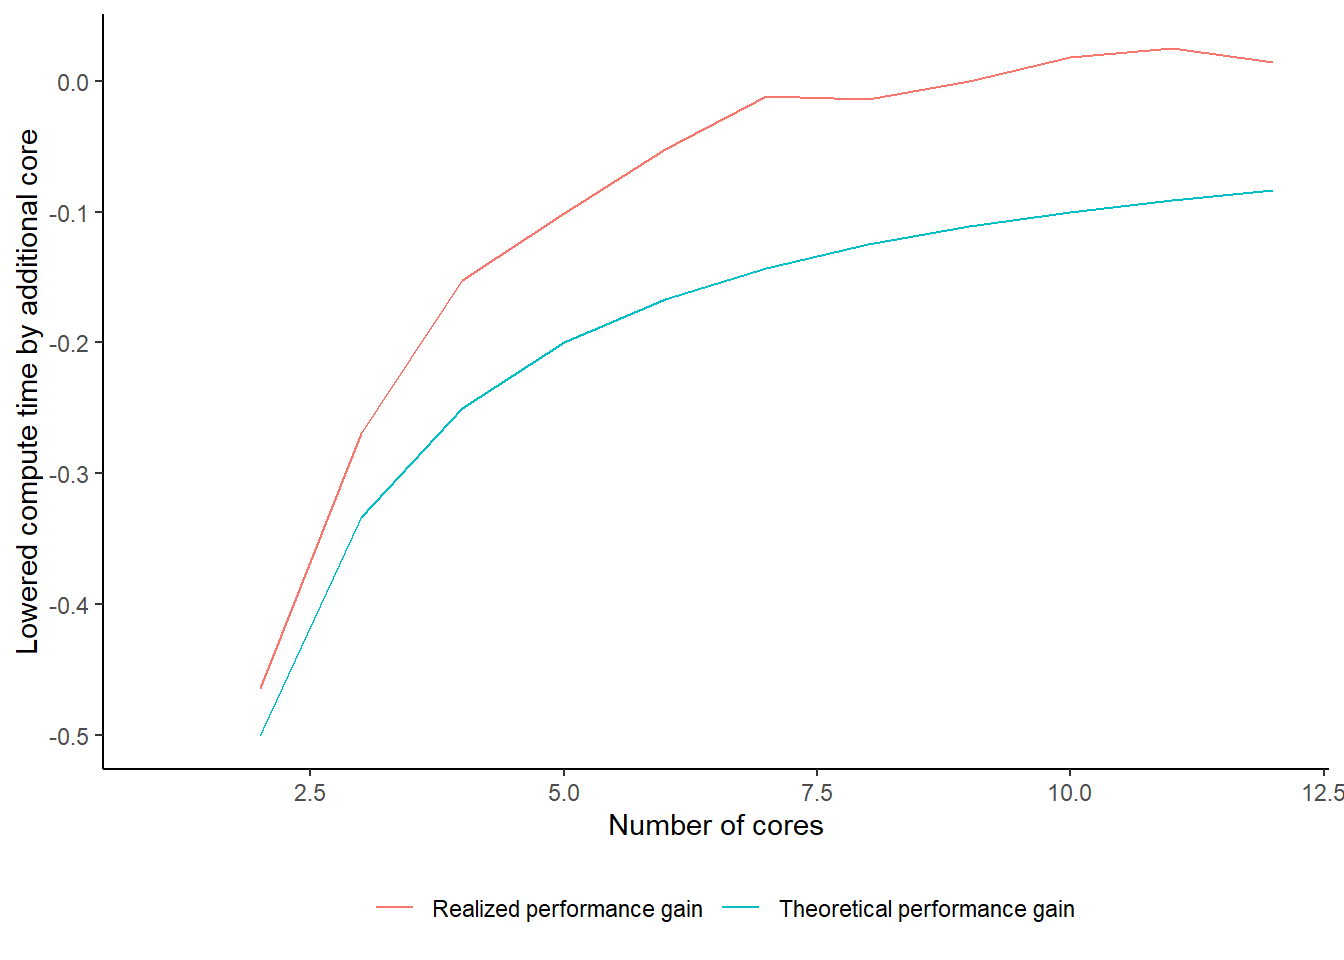
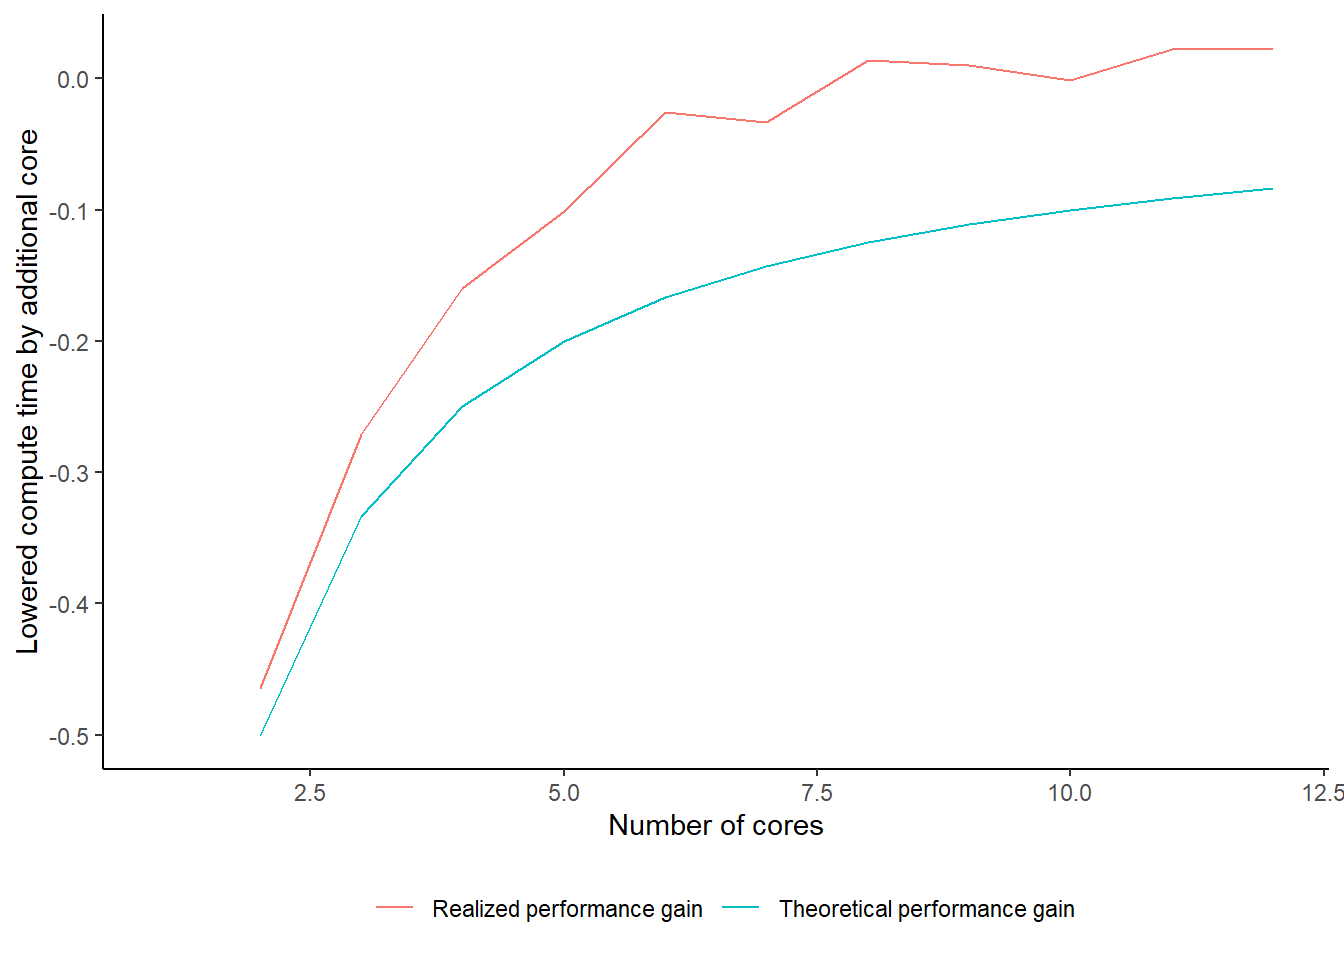
added link to data set

diff --git a/docs/09-parallel-computing.html b/docs/09-parallel-computing.html
@@ -371,6 +371,7 @@ code span.wa { color: #60a0b0; font-weight: bold; font-style: italic; } /* Warni
 </ul>
 <p>…will the dealership go <strong>bankrupt</strong>?</p>
 <p>The question should be answered separately for different lead times, and with different potential start-dates for the dealership.</p>
+<p>You can find the data set with NOK/BTC exhange rates here: <a href="parallel_data.Rdata">parallel_data.Rdata</a></p>
 <div class="cell">
 <div class="sourceCode cell-code" id="cb1"><pre class="sourceCode r code-with-copy"><code class="sourceCode r"><span id="cb1-1"><a href="#cb1-1" aria-hidden="true" tabindex="-1"></a><span class="fu">library</span>(tidyverse)</span></code><button title="Copy to Clipboard" class="code-copy-button"><i class="bi"></i></button></pre></div>
 <div class="cell-output cell-output-stderr">
@@ -481,7 +482,7 @@ code span.wa { color: #60a0b0; font-weight: bold; font-style: italic; } /* Warni
 <span id="cb5-5"><a href="#cb5-5" aria-hidden="true" tabindex="-1"></a><span class="fu">Sys.sleep</span>(<span class="dv">1</span>)</span>
 <span id="cb5-6"><a href="#cb5-6" aria-hidden="true" tabindex="-1"></a><span class="fu">toc</span>()</span></code><button title="Copy to Clipboard" class="code-copy-button"><i class="bi"></i></button></pre></div>
 <div class="cell-output cell-output-stdout">
-<pre><code>1.04 sec elapsed</code></pre>
+<pre><code>1.02 sec elapsed</code></pre>
 </div>
 </div>
 <p>Tictoc can also store to logs, so we can make comparisons across experiments. However, the log is stored in an awkward format, so let’s make a function for printing out results in a data frame:</p>
@@ -549,7 +550,7 @@ code span.wa { color: #60a0b0; font-weight: bold; font-style: italic; } /* Warni
 <span id="cb10-17"><a href="#cb10-17" aria-hidden="true" tabindex="-1"></a></span>
 <span id="cb10-18"><a href="#cb10-18" aria-hidden="true" tabindex="-1"></a><span class="fu">toc</span>(<span class="at">log =</span> <span class="cn">TRUE</span>)</span></code><button title="Copy to Clipboard" class="code-copy-button"><i class="bi"></i></button></pre></div>
 <div class="cell-output cell-output-stdout">
-<pre><code>Regular loop: 36.09 sec elapsed</code></pre>
+<pre><code>Regular loop: 31.78 sec elapsed</code></pre>
 </div>
 <div class="sourceCode cell-code" id="cb12"><pre class="sourceCode r code-with-copy"><code class="sourceCode r"><span id="cb12-1"><a href="#cb12-1" aria-hidden="true" tabindex="-1"></a><span class="fu">printTicTocLog</span>() <span class="sc">%&gt;%</span></span>
 <span id="cb12-2"><a href="#cb12-2" aria-hidden="true" tabindex="-1"></a>  knitr<span class="sc">::</span><span class="fu">kable</span>()</span></code><button title="Copy to Clipboard" class="code-copy-button"><i class="bi"></i></button></pre></div>
@@ -564,7 +565,7 @@ code span.wa { color: #60a0b0; font-weight: bold; font-style: italic; } /* Warni
 <tbody>
 <tr class="odd">
 <td style="text-align: left;">Regular loop</td>
-<td style="text-align: left;">36.09</td>
+<td style="text-align: left;">31.78</td>
 </tr>
 </tbody>
 </table>
@@ -665,7 +666,7 @@ Attaching package: 'foreach'</code></pre>
 <span id="cb20-34"><a href="#cb20-34" aria-hidden="true" tabindex="-1"></a></span>
 <span id="cb20-35"><a href="#cb20-35" aria-hidden="true" tabindex="-1"></a><span class="fu">toc</span>(<span class="at">log =</span> <span class="cn">TRUE</span>)</span></code><button title="Copy to Clipboard" class="code-copy-button"><i class="bi"></i></button></pre></div>
 <div class="cell-output cell-output-stdout">
-<pre><code>Parallel loop, 8 cores: 10.95 sec elapsed</code></pre>
+<pre><code>Parallel loop, 8 cores: 10.33 sec elapsed</code></pre>
 </div>
 <div class="sourceCode cell-code" id="cb22"><pre class="sourceCode r code-with-copy"><code class="sourceCode r"><span id="cb22-1"><a href="#cb22-1" aria-hidden="true" tabindex="-1"></a><span class="fu">printTicTocLog</span>() <span class="sc">%&gt;%</span></span>
 <span id="cb22-2"><a href="#cb22-2" aria-hidden="true" tabindex="-1"></a>  knitr<span class="sc">::</span><span class="fu">kable</span>()</span></code><button title="Copy to Clipboard" class="code-copy-button"><i class="bi"></i></button></pre></div>
@@ -680,11 +681,11 @@ Attaching package: 'foreach'</code></pre>
 <tbody>
 <tr class="odd">
 <td style="text-align: left;">Regular loop</td>
-<td style="text-align: left;">36.09</td>
+<td style="text-align: left;">31.78</td>
 </tr>
 <tr class="even">
 <td style="text-align: left;">Parallel loop, 8 cores</td>
-<td style="text-align: left;">10.95</td>
+<td style="text-align: left;">10.33</td>
 </tr>
 </tbody>
 </table>
@@ -708,7 +709,7 @@ Attaching package: 'foreach'</code></pre>
 <span id="cb23-10"><a href="#cb23-10" aria-hidden="true" tabindex="-1"></a></span>
 <span id="cb23-11"><a href="#cb23-11" aria-hidden="true" tabindex="-1"></a><span class="fu">toc</span>(<span class="at">log =</span> <span class="cn">TRUE</span>)</span></code><button title="Copy to Clipboard" class="code-copy-button"><i class="bi"></i></button></pre></div>
 <div class="cell-output cell-output-stdout">
-<pre><code>purrr: 32.45 sec elapsed</code></pre>
+<pre><code>purrr: 31.14 sec elapsed</code></pre>
 </div>
 <div class="sourceCode cell-code" id="cb25"><pre class="sourceCode r code-with-copy"><code class="sourceCode r"><span id="cb25-1"><a href="#cb25-1" aria-hidden="true" tabindex="-1"></a><span class="fu">printTicTocLog</span>() <span class="sc">%&gt;%</span></span>
 <span id="cb25-2"><a href="#cb25-2" aria-hidden="true" tabindex="-1"></a>  knitr<span class="sc">::</span><span class="fu">kable</span>()</span></code><button title="Copy to Clipboard" class="code-copy-button"><i class="bi"></i></button></pre></div>
@@ -723,15 +724,15 @@ Attaching package: 'foreach'</code></pre>
 <tbody>
 <tr class="odd">
 <td style="text-align: left;">Regular loop</td>
-<td style="text-align: left;">36.09</td>
+<td style="text-align: left;">31.78</td>
 </tr>
 <tr class="even">
 <td style="text-align: left;">Parallel loop, 8 cores</td>
-<td style="text-align: left;">10.95</td>
+<td style="text-align: left;">10.33</td>
 </tr>
 <tr class="odd">
 <td style="text-align: left;">purrr</td>
-<td style="text-align: left;">32.45</td>
+<td style="text-align: left;">31.14</td>
 </tr>
 </tbody>
 </table>
@@ -759,7 +760,7 @@ Attaching package: 'foreach'</code></pre>
 <span id="cb28-11"><a href="#cb28-11" aria-hidden="true" tabindex="-1"></a></span>
 <span id="cb28-12"><a href="#cb28-12" aria-hidden="true" tabindex="-1"></a><span class="fu">toc</span>(<span class="at">log =</span> <span class="cn">TRUE</span>)</span></code><button title="Copy to Clipboard" class="code-copy-button"><i class="bi"></i></button></pre></div>
 <div class="cell-output cell-output-stdout">
-<pre><code>furrr, 8 cores: 8.99 sec elapsed</code></pre>
+<pre><code>furrr, 8 cores: 8.7 sec elapsed</code></pre>
 </div>
 <div class="sourceCode cell-code" id="cb30"><pre class="sourceCode r code-with-copy"><code class="sourceCode r"><span id="cb30-1"><a href="#cb30-1" aria-hidden="true" tabindex="-1"></a><span class="fu">printTicTocLog</span>() <span class="sc">%&gt;%</span></span>
 <span id="cb30-2"><a href="#cb30-2" aria-hidden="true" tabindex="-1"></a>  knitr<span class="sc">::</span><span class="fu">kable</span>()</span></code><button title="Copy to Clipboard" class="code-copy-button"><i class="bi"></i></button></pre></div>
@@ -774,19 +775,19 @@ Attaching package: 'foreach'</code></pre>
 <tbody>
 <tr class="odd">
 <td style="text-align: left;">Regular loop</td>
-<td style="text-align: left;">36.09</td>
+<td style="text-align: left;">31.78</td>
 </tr>
 <tr class="even">
 <td style="text-align: left;">Parallel loop, 8 cores</td>
-<td style="text-align: left;">10.95</td>
+<td style="text-align: left;">10.33</td>
 </tr>
 <tr class="odd">
 <td style="text-align: left;">purrr</td>
-<td style="text-align: left;">32.45</td>
+<td style="text-align: left;">31.14</td>
 </tr>
 <tr class="even">
 <td style="text-align: left;">furrr, 8 cores</td>
-<td style="text-align: left;">8.99</td>
+<td style="text-align: left;">8.7</td>
 </tr>
 </tbody>
 </table>
@@ -814,18 +815,18 @@ Attaching package: 'foreach'</code></pre>
 <span id="cb31-15"><a href="#cb31-15" aria-hidden="true" tabindex="-1"></a>  <span class="fu">toc</span>(<span class="at">log =</span> <span class="cn">TRUE</span>)</span>
 <span id="cb31-16"><a href="#cb31-16" aria-hidden="true" tabindex="-1"></a>}</span></code><button title="Copy to Clipboard" class="code-copy-button"><i class="bi"></i></button></pre></div>
 <div class="cell-output cell-output-stdout">
-<pre><code>furrr, 1 cores: 31.52 sec elapsed
-furrr, 2 cores: 16.89 sec elapsed
-furrr, 3 cores: 12.34 sec elapsed
-furrr, 4 cores: 10.46 sec elapsed
-furrr, 5 cores: 9.4 sec elapsed
-furrr, 6 cores: 8.91 sec elapsed
-furrr, 7 cores: 8.81 sec elapsed
-furrr, 8 cores: 8.69 sec elapsed
-furrr, 9 cores: 8.69 sec elapsed
-furrr, 10 cores: 8.85 sec elapsed
-furrr, 11 cores: 9.07 sec elapsed
-furrr, 12 cores: 9.2 sec elapsed</code></pre>
+<pre><code>furrr, 1 cores: 31.69 sec elapsed
+furrr, 2 cores: 16.96 sec elapsed
+furrr, 3 cores: 12.37 sec elapsed
+furrr, 4 cores: 10.39 sec elapsed
+furrr, 5 cores: 9.34 sec elapsed
+furrr, 6 cores: 9.1 sec elapsed
+furrr, 7 cores: 8.8 sec elapsed
+furrr, 8 cores: 8.92 sec elapsed
+furrr, 9 cores: 9.01 sec elapsed
+furrr, 10 cores: 9 sec elapsed
+furrr, 11 cores: 9.2 sec elapsed
+furrr, 12 cores: 9.41 sec elapsed</code></pre>
 </div>
 <div class="sourceCode cell-code" id="cb33"><pre class="sourceCode r code-with-copy"><code class="sourceCode r"><span id="cb33-1"><a href="#cb33-1" aria-hidden="true" tabindex="-1"></a><span class="fu">printTicTocLog</span>() <span class="sc">%&gt;%</span></span>
 <span id="cb33-2"><a href="#cb33-2" aria-hidden="true" tabindex="-1"></a>  <span class="fu">tail</span>(maxcores) <span class="sc">%&gt;%</span></span>
